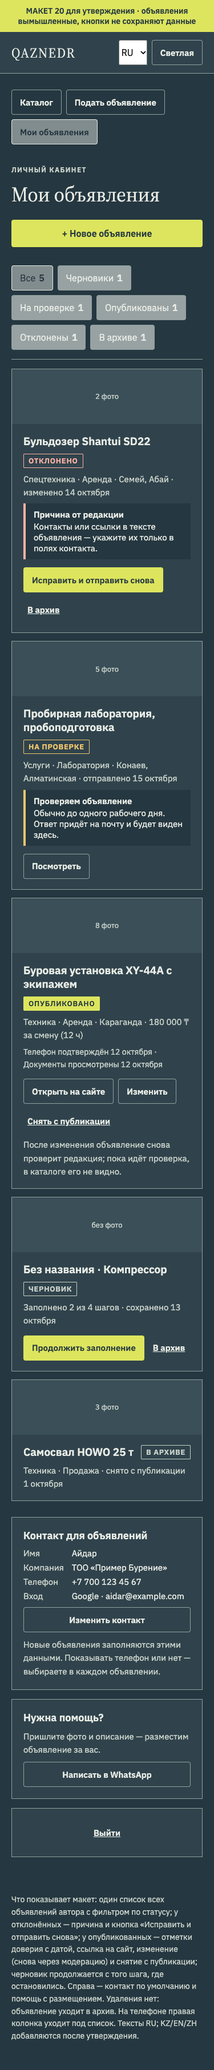
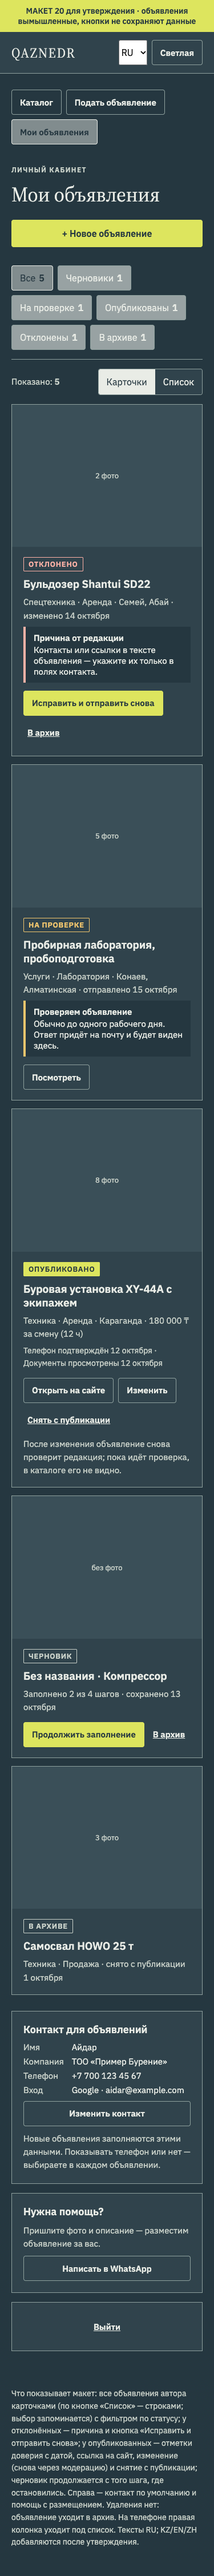
docs(design): mockup 20 cards by default, owner approval recorded
Claude-Session: https://claude.ai/code/session_01UV9TLty6hgLCTEKWCvtpzL

diff --git a/docs/design/review/20-owner-cabinet.html b/docs/design/review/20-owner-cabinet.html
@@ -88,7 +88,7 @@
       .note { border-left: 4px solid var(--error); background: var(--bg); padding: 10px 14px; font-size: 15px; }
       .note.info { border-color: var(--warn); }
       .note strong { display: block; margin-bottom: 2px; }
-      .actions { display: flex; gap: 8px; flex-wrap: wrap; margin-top: 6px; }
+      .actions { display: flex; gap: 8px; flex-wrap: wrap; margin-top: 6px; align-items: center; }
       .marks { font-size: 14px; color: var(--muted); }
       aside .card { border: 1px solid var(--line); background: var(--surface); padding: 20px; display: grid; gap: 10px; }
       aside .card + .card { margin-top: 16px; }
@@ -98,6 +98,16 @@
       dd { margin: 0; }
       .empty { border: 1px dashed var(--line); padding: 28px; text-align: center; display: grid; gap: 12px; justify-items: center; }
       .explain { max-width: 820px; margin: 0 auto 48px; padding: 0 20px; color: var(--muted); font-size: 14px; }
+      .viewbar { display: flex; justify-content: space-between; align-items: center; gap: 12px; margin-top: 16px; flex-wrap: wrap; }
+      .toggle { display: inline-flex; border: 1px solid var(--line); border-radius: 4px; overflow: hidden; }
+      .toggle button { border: 0; background: var(--surface); color: var(--ink); padding: 0 14px; }
+      .toggle button[aria-pressed='true'] { background: var(--ink); color: var(--bg); }
+      .list.cards { grid-template-columns: repeat(auto-fill, minmax(260px, 1fr)); align-items: stretch; }
+      .list.cards .item { grid-template-columns: 1fr; grid-template-rows: auto 1fr; }
+      .list.cards .thumb { aspect-ratio: 4 / 3; min-height: 0; }
+      .list.cards .row { flex-direction: column-reverse; align-items: flex-start; }
+      .list.cards .body { display: flex; flex-direction: column; gap: 8px; }
+      .list.cards .actions { margin-top: auto; padding-top: 6px; align-items: center; }
       .hide { display: none !important; }
       @media (prefers-reduced-motion: no-preference) { .btn, .chip { transition: background .12s; } }
     </style>
@@ -140,7 +150,14 @@
             <button class="chip" aria-pressed="false" data-f="archived">В архиве<b>1</b></button>
           </div>
 
-          <ul class="list" id="list">
+          <div class="viewbar">
+            <span class="meta">Показано: <b id="count">5</b></span>
+            <div class="toggle" role="group" aria-label="Вид">
+              <button type="button" aria-pressed="true" data-view="cards">Карточки</button>
+              <button type="button" aria-pressed="false" data-view="list">Список</button>
+            </div>
+          </div>
+          <ul class="list cards" id="list">
             <li class="item" data-s="rejected">
               <div class="thumb">2 фото</div>
               <div class="body">
@@ -254,7 +271,7 @@
     </main>
 
     <p class="explain">
-      Что показывает макет: один список всех объявлений автора с фильтром по статусу; у отклонённых — причина и кнопка
+      Что показывает макет: все объявления автора карточками (по кнопке «Список» — строками; выбор запоминается) с фильтром по статусу; у отклонённых — причина и кнопка
       «Исправить и отправить снова»; у опубликованных — отметки доверия с датой, ссылка на сайт, изменение (снова через
       модерацию) и снятие с публикации; черновик продолжается с того шага, где остановились. Справа — контакт по
       умолчанию и помощь с размещением. Удаления нет: объявление уходит в архив. На телефоне правая колонка уходит под
@@ -274,6 +291,13 @@
             if (visible) shown++;
           });
           document.getElementById('empty').classList.toggle('hide', shown > 0);
+          document.getElementById('count').textContent = shown;
+        })
+      );
+      document.querySelectorAll('[data-view]').forEach((button) =>
+        button.addEventListener('click', () => {
+          document.querySelectorAll('[data-view]').forEach((b) => b.setAttribute('aria-pressed', String(b === button)));
+          document.getElementById('list').classList.toggle('cards', button.dataset.view === 'cards');
         })
       );
       document.getElementById('theme').addEventListener('click', (e) => {

diff --git a/docs/design/mockups/20/README.md b/docs/design/mockups/20/README.md
@@ -2,4 +2,4 @@
 
 Открыть: [review/20-owner-cabinet.html](../../review/20-owner-cabinet.html). Скриншоты: `desktop-ru.png` (1440), `mobile-ru.png`, `mobile-dark-ru.png` (375). Без горизонтального переполнения на 1440 и 375.
 
-Показывает этап 4 плана маркетплейса: один список объявлений автора с фильтром по статусу (черновик, на проверке, опубликовано, отклонено, архив); причину отказа и «Исправить и отправить снова»; отметки доверия с датой у опубликованных; изменение опубликованного снова через модерацию (на время проверки объявление не видно в каталоге — так работает текущая логика); снятие с публикации; продолжение черновика. Справа контакт по умолчанию, помощь с размещением через WhatsApp и выход. Удаления нет — архив. Тексты RU; KZ/EN/ZH после утверждения. Стиль A3/D2, кнопки 44–48 px.
+Показывает этап 4 плана маркетплейса: объявления автора карточками (переключатель на список) с фильтром по статусу (черновик, на проверке, опубликовано, отклонено, архив); причину отказа и «Исправить и отправить снова»; отметки доверия с датой у опубликованных; изменение опубликованного снова через модерацию (на время проверки объявление не видно в каталоге — так работает текущая логика); снятие с публикации; продолжение черновика. Справа контакт по умолчанию, помощь с размещением через WhatsApp и выход. Удаления нет — архив. Тексты RU; KZ/EN/ZH после утверждения. Стиль A3/D2, кнопки 44–48 px.

diff --git a/docs/design/APPROVED.md b/docs/design/APPROVED.md
@@ -220,3 +220,7 @@ ZH «合作伙伴»): «ищем партнёра», «Партнёр найде
 снимки добавим после поездки. В оговорке сказано, что заявитель связан с командой
 QAZNEDR. Текст: `docs/copy/2026-10-14-offer-qn-a03.md`. Новые подписи: сырьё
 «Туф», цена в тенге со знаком «₸».
+
+## Показ 20 «Мои объявления» — утверждён с правкой, 15.10.2026
+
+На скриншоты макета `docs/design/review/20-owner-cabinet.html` владелец ответил «ну вроде норм макет тока надо изначально чтобы было как карточки а не список но и по желанию в список кнопкой перкключать». Правка внесена: по умолчанию карточки сеткой, переключатель «Карточки / Список» (выбор запоминается). Утверждены: фильтр по статусам с количеством, причина отказа и «Исправить и отправить снова», отметки доверия с датой у опубликованных, «Открыть на сайте / Изменить / Снять с публикации», продолжение черновика, архив вместо удаления, правая колонка с контактом по умолчанию, помощью через WhatsApp и выходом. Срок «обычно до одного рабочего дня» и письма автору — только после подключения почты. Открыт вопрос владельцу: при правке опубликованного объявления скрывать его до проверки (сейчас) или показывать прежнюю версию. Скриншоты: `docs/design/mockups/20/`.
